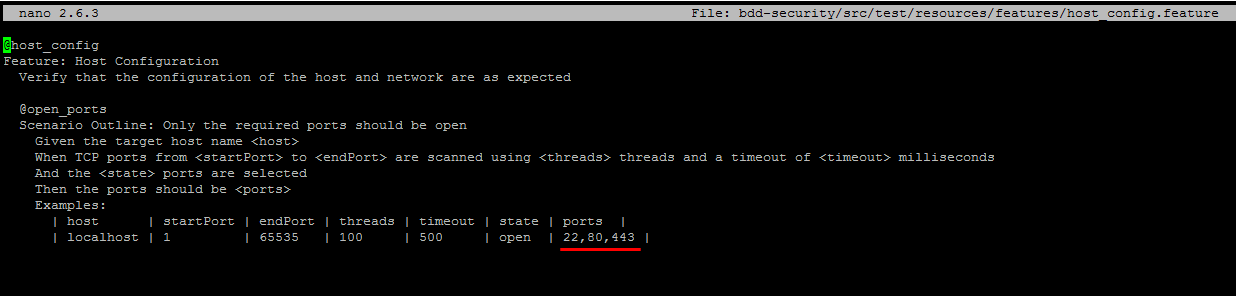
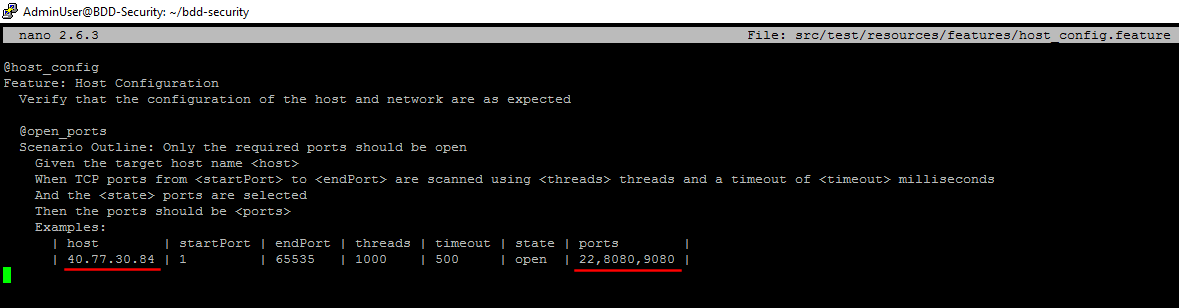
updated readme to address the comments

Changed region(s): [[0.0, 0.0, 1.0, 0.3345], [0.0, 0.3649, 0.855, 0.9122]]

diff --git a/docs/HOL_BDD-Security-Framework-integration-into-VSTS/README.md b/docs/HOL_BDD-Security-Framework-integration-into-VSTS/README.md
@@ -6,9 +6,9 @@ BDD-Security is a security testing framework that uses Behavior Driven Developme
 
 ## Pre-requisites:
 
-* [HOL - Continuous Integration](https://github.com/Microsoft/PartsUnlimitedMRP/tree/master/docs/HOL_Continuous-Integration)
+* [HOL - Continuous Integration](https://microsoft.github.io/PartsUnlimitedMRP/fundvsts/fund-01-MS-CI.html)
 
-* [HOL - Continuous Deployment](https://github.com/Microsoft/PartsUnlimitedMRP/tree/master/docs/HOL_Continuous-Deployment)
+* [HOL - Continuous Deployment](https://microsoft.github.io/PartsUnlimitedMRP/fundvsts/fund-02-MS-CD.html)
 
 
 ## Tasks Overview:
@@ -67,7 +67,9 @@ To integrate BDD-Security with VSTS, you need to create a VM where all the tests
 **Step 3.** Open your preferred SSH client and connect to your Ubuntu machine.
 
 ![](media/6.png)
->**Note:** In this lab we use [PuTTY](http://www.putty.org/) ssh client.
+> **Note:**
+> 1) In this lab we use [PuTTY](http://www.putty.org/) ssh client because we are using a Windows machine.
+> 2) Run the following command to initiate the ssh connection if you are using a Unix machine: `ssh <User>@<PublicIp>`
 
 
 **Step 4.** When the security warning will pop up, note the fingerprint of the Ubuntu VM. This fingerprint is required for VSTS setup later on. Click on "Yes" to add fingerprint to your machine and connect to the machine.
@@ -88,7 +90,7 @@ sudo apt-get install default-jdk -y
 export JAVA_HOME=/usr/lib/jvm/java-8-openjdk-amd64
 export PATH=$PATH:/usr/lib/jvm/java-8-openjdk-amd64/bin
 ```
->**Note:** Ubuntu 16.10 is shipped with java 8 by default.
+> **Note:** Ubuntu 16.10 is shipped with java 8 by default.
 
 
 **Step 7.** Clone [BDD-Security]( https://github.com/continuumsecurity/bdd-security) repository and navigate to it.
@@ -106,15 +108,21 @@ cd bdd-security/
     ```
 
 2. Update the following tags:
-  * baseUrl: URL to your MRP solution
-  * class: `net.continuumsecurity.CustomApplication`
+
+    * baseUrl: URL to your MRP solution
+
+        > **Note:** `baseUrl` tag is used to let BDD-Security know what website to run its tests against.
+
+    * class: `net.continuumsecurity.CustomApplication`
+
+        > **Note:** BDD-Security comes with a tool for automating actions in browsers called `Selenium`. It's primarily used for testing but can also be used for automating administration tasks. The `class` tag is used here to specify a java class with the navigation steps though the website.
 
     ![](media/8.png)
 
 3. Save the changes and exit the editor. Press `Ctrl+x` to indicate that you want to exit the editor. Press `Y` to save the changes and press `Enter` to confirm the file name.
 
 
-**Step 9.** Create `CustomApplication.java` .
+**Step 9.** Create `CustomApplication.java`.
 
 1. Run the following command to create the `CustomApplication.java` file
 
@@ -142,6 +150,7 @@ cd bdd-security/
         }
     }
     ```
+    > **Note:** You can use this class to navigate though the website using `Selenium` tool. `Selenium` allows an in-depth testing of the website's functionalities by simulating users' actions. We are going to leave this class empty but you can find out more about this here: [Github - BDD-Security ](https://github.com/continuumsecurity/bdd-security/wiki/3-Configuration).
 
 3. Press `Ctrl+d` to save the file with the content specified.
 
@@ -204,7 +213,7 @@ cd bdd-security/
 2.  Add `BDDSecurityUser` and `BDDSecurityPassword` variables, set their values to the credentials of the BDD-Security VM. Add `BDDSecurityIP` variable and set its value to the IP address or DNS name of the BDD-Security VM. Add `BDDSecurityKey` and set its value to fingerprint of your Ubuntu Machine. Click on "OK".
 
     ![](media/17.png)
-    >**Note:** if you haven't noted the fingerprint of your Ubuntu machine before, you can connect to it using SSH and run the following command: `ssh-keygen -l -E md5 -f /etc/ssh/ssh_host_rsa_key.pub`
+    > **Note:** To get the fingerprint of your Ubuntu machine, connect to it using SSH again and run the following command: `ssh-keygen -l -E md5 -f /etc/ssh/ssh_host_rsa_key.pub`
 
 
 **Step 7.** Add a new task by clicking on “Add tasks”, in "Test" category click on “Add” next to "Publish Test Results", then click on "Close".
@@ -255,6 +264,7 @@ cd bdd-security/
  ```
  ./gradlew -Dcucumber.options="--tags @app_scan,@host_config --tags ~@skip"
  ```
+ > **Note:** The `@host_config` adds another group of tests to be run by BDD-Security. By default this group contains one test that makes sure that only ports 80 and 443 are open on the machine. To find out more about tags, please refer to this [link](https://github.com/cucumber/cucumber/wiki/Tags)
 
 
 **Step 3.** At this stage you should also address a possibility of insecure website being promoted to production environment. Add the following code at the end of the script to fail the release if there were errors in test results:
@@ -262,8 +272,10 @@ cd bdd-security/
 # If file with results contains "failed" then returning non-zero value will indicate error and fail the build.
 return @(Get-Content all_tests.xml | Where-Object { $_.Contains("failed") }).Count
 ```
->**Note:** This is not required to fail the build if you have "Fail on Standard Error" ticked (by default) on "BDD-Security" task.
-    ![](media/30.png)
+![](media/35.png)
+
+> **Note:** This step is not required to fail the build if you have "Fail on Standard Error" ticked (by default) on "BDD-Security" task
+> ![](media/30.png)
 
 
 **Step 4.** Save `SSH-MRP-BDD-Security.ps1`. Open command line (which supports git) and navigate to your PartsUnlimitedMRP repository location. Run the following commands to add these changes to the remote repo and trigger automatic build and release.
@@ -280,16 +292,16 @@ git push
   ![](media/31.png)
 
 
-**Step 6.** You should see the summary indicating that one test has failed. To investigate the reason of failure, download the attachment `all_tests.xml` by clicking on it.
+**Step 6.** Click on "Test results", then double click on failing test to see more information.
 
   ![](media/32.png)
 
 
-**Step 7.** Open downloaded `all_tests.xml` in text editor and find which test has failed. Based on the stack trace, a port test has failed by finding open ports other than 80 and 443. To fix this issue, you will need to modify the test to expect 22 to be open and run tests again.
+**Step 7.** Based on the stack trace, a port test has failed by finding open ports other than 80 and 443. To fix this issue, you will need to modify the test to expect the right ports to be open.
 
   ![](media/33.png)
 
->**Note:** Do not close port 22 on the Ubuntu VM. It's the port used by SSH to connect to the machine.
+> **Note:** Do not close port 22 on the Ubuntu VM. It's the port used by SSH to connect to the machine.
 
 
 **Step 8.** Run the following command on the Ubuntu machine to open file with the failing test in nano editor:
@@ -298,7 +310,7 @@ nano bdd-security/src/test/resources/features/host_config.feature
 ```
 
 
-**Step 9.** Add port 22 to the list of expected open ports like so:
+**Step 9.** Change ports to the expected 22, 8080 and 9080. Also note that initially test was run against localhost (VM with BDD-Security). Change host value to the public IP address of your VM with MRP solution.
 
    ![](media/34.png)
 
@@ -306,7 +318,7 @@ nano bdd-security/src/test/resources/features/host_config.feature
 **Step 10.** Save the changes and exit the editor. Press `Ctrl+x` to indicate that you want to exit the editor. Press `Y` to save the changes and press `Enter` to confirm the file name.
 
 
-**Step 11.** Rerun the tests by triggering a new deployment or by running the following commands on the Ubuntu machine to see whether the tests will pass this time: 
+**Step 11.** Rerun the tests by triggering a new deployment or by running the following commands on the Ubuntu machine to see whether the tests will pass this time:
 ```
 cd bdd-security/
 ./gradlew -Dcucumber.options="--tags @app_scan,@host_config --tags ~@skip"
